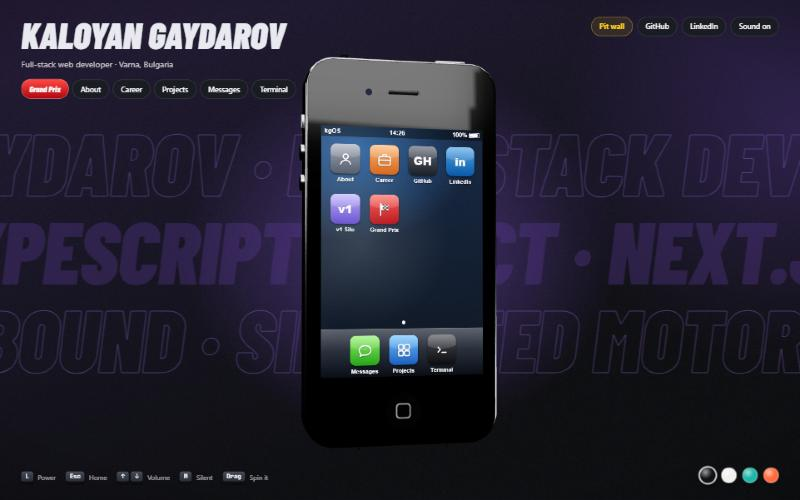
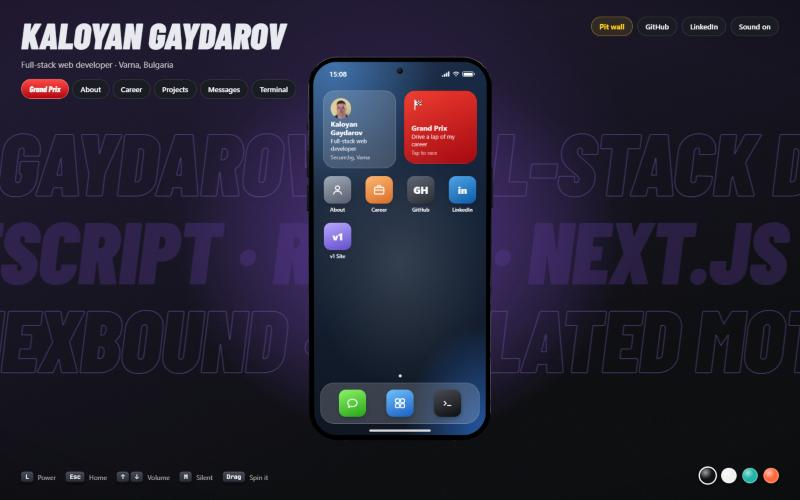
README: screenshots and wording for the new kgOS 5 phone

diff --git a/README.md b/README.md
@@ -1,6 +1,6 @@
 # KG Grand Prix — Kaloyan Gaydarov's portfolio
 
-**A portfolio you play.** A 3D phone you can spin, unlock and use, with a racing game inside it. You drive one lap of my career, then pull into the pit lane to try my projects.
+**A portfolio you play.** A 3D phone of my own design that you can spin, unlock and use, with a racing game inside it. You drive one lap of my career, then pull into the pit lane to try my projects.
 
 **Live:** https://iphoneporfolio.vercel.app &nbsp;·&nbsp; **Plain version:** https://iphoneporfolio.vercel.app/pit-wall
 
@@ -10,8 +10,8 @@
 
 ## What it does
 
-- **A phone built entirely in code.** The handset is modelled from extruded shapes and physical materials in Three.js, with no 3D model files. Drag it to spin it; it springs back with your swipe's speed carried through. Its buttons work: power, volume, the silent switch and home.
-- **A working home screen.** The screen is real HTML mapped onto the 3D glass. There are apps for About, Career, Projects, Messages, a Terminal with its own command parser, a live GitHub feed, a LinkedIn card, and an in-phone browser that opens my projects' live sites.
+- **A phone built entirely in code.** An original modern handset (flat satin frame, punch-hole camera, frosted back with a pill-shaped camera block) modelled from extruded shapes and physical materials in Three.js, with no 3D model files. Drag it to spin it; it springs back with your swipe's speed carried through. Its side buttons work: power, volume and the silent switch.
+- **kgOS 5, its own interface.** The screen is real HTML mapped onto the 3D glass: swipe up to unlock, a home screen with profile and Grand Prix widgets, and a home bar to go back. There are apps for About, Career, Projects, Messages, a Terminal with its own command parser, a live GitHub feed, a LinkedIn card, and an in-phone browser that opens my projects' live sites.
 - **The Grand Prix.** Press it and the phone turns on its side into a handheld console. A 3D race runs on the phone's screen:
   - start lights, a lap timer, and a best lap saved in your browser
   - an AI rival that brakes for each corner from a computed speed profile
